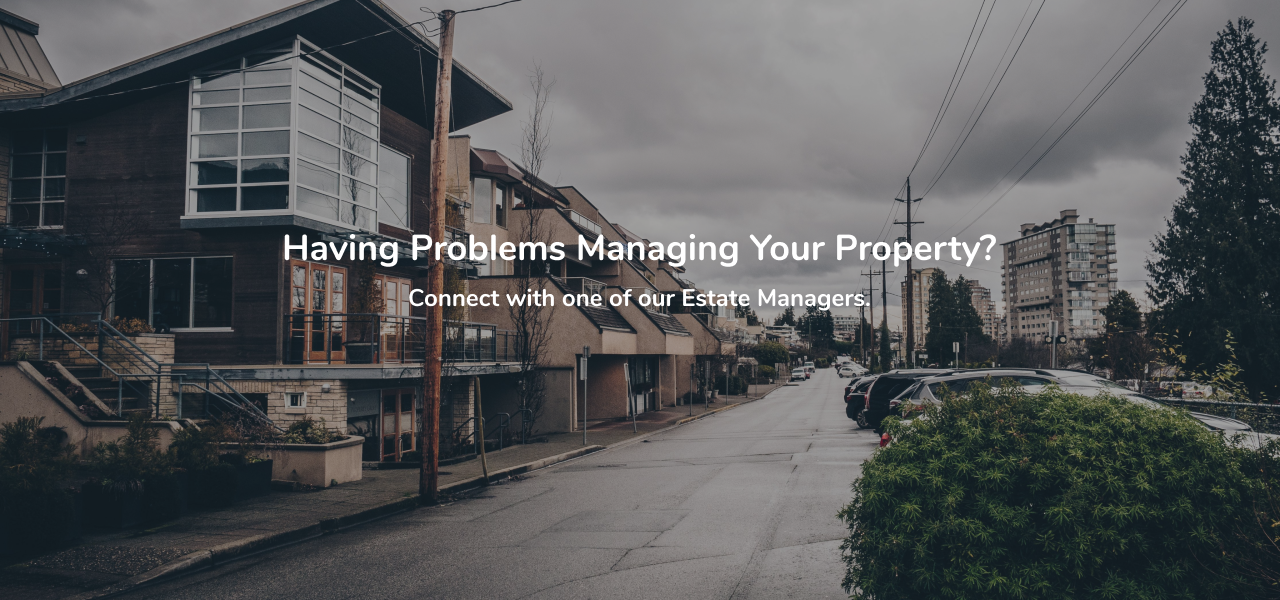
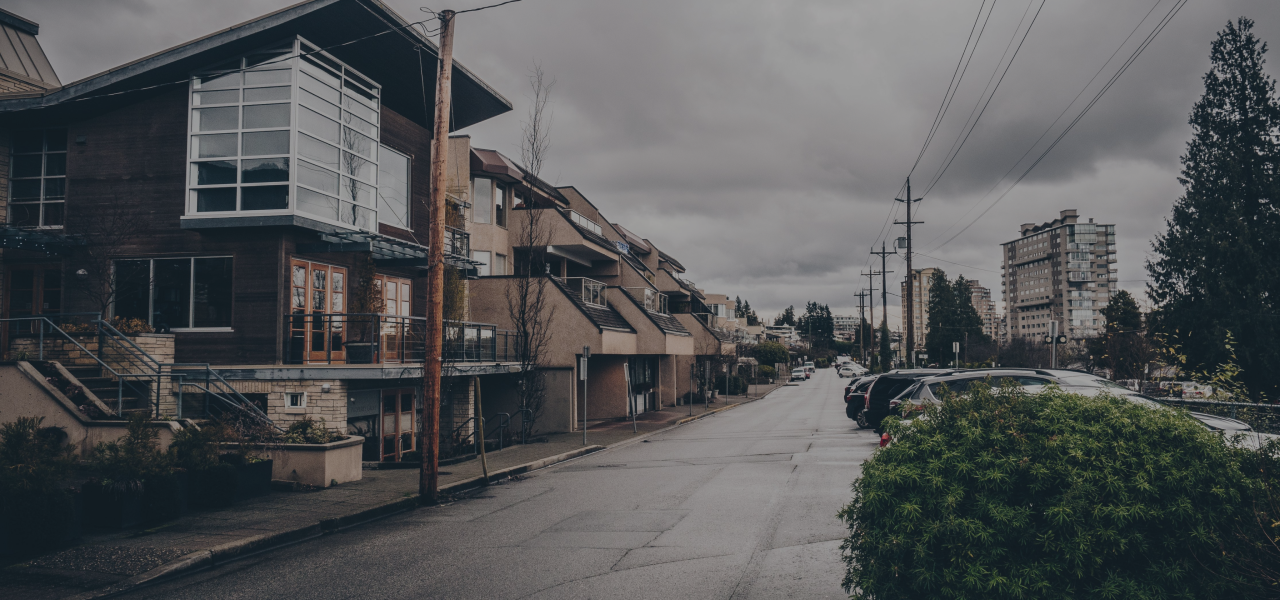
dashboard

Changed region(s): [[0.2188, 0.39, 0.7812, 0.45], [0.3125, 0.48, 0.6875, 0.51]]

diff --git a/index.html b/index.html
@@ -24,15 +24,14 @@
           <img src="assets/img/home icon.svg" class="admin--icon" height="32px" alt="">
         </a>
       </div>
-      <div>
+  <div>
           <p class="admin--text-big">
               Having Problems Managing Your Property?
             </p>
             <p class="admin--text-small">
               Connect with one of our Estate Managers.
             </p>
-      </div>
-      
+          </div>
       <div class="text-align--center">
         <a href="contact-us.html">
           <button type="button" class="btn btn-primary justify-content-center btn-admin-text text-align--center">Contact us now</button>
@@ -58,7 +57,7 @@
         </div>
         <div class="col-12 col-sm col-md-4 cards__cards">
           <div class="cards__cards--image">
-            <img src="assets/img/mark.svg" height="56px" width="56px" alt="">
+            <img src="assets/img/mark.svg" height="56px" width="40px" alt="">
           </div>
           <h3 class="cards__cards--title">Respond to Queries </h3>
           <p>Lorem ipsum dolor sit amet,
@@ -76,9 +75,7 @@
             <br> magna phasellus
             <br> maecenas nunc pharetra.</p>
         </div>
-
       </div>
-
     </div>
   </section>
 
@@ -88,9 +85,11 @@
         <div class="row cards__row">
             <div class="col align-self-center text-align--center">
                 <div class="cards__cards--image-pay">
-                    <img src="assets/img/Rectangle 3.svg" height="56px" width="56px" alt="">
+                    <a href="https://bit.ly/2KnaS7A" target="_blank"><img src="assets/img/Rectangle 3.svg" height="56px" width="56px" alt=""></a> 
+
                   </div>
-                <h3 class="bills__cards--title">Paystack</h3>
+                  <h3 class="bills__cards--title"><a href="https://bit.ly/2KnaS7A" target="_blank" class="btn--upload">Paystack</a></h3> 
+
                <p>Pay using paystack</p> 
               </div>
           </div>
@@ -108,7 +107,36 @@
                   <div class="cards__cards--image-pay">
                       <img src="assets/img/money-transfer icon.svg" height="56px" width="56px" alt="">
                     </div>
-                  <h3 class="bills__cards--title">Mobile Transfers</h3>
+                    <!-- Button trigger modal -->
+<button type="button" class="btn btn--upload" data-toggle="modal" data-target="#exampleModal1">
+  <h3 class="bills__cards--title">Mobile Transfers</h3>
+</button>
+
+<!-- Modal -->
+<div class="modal fade" id="exampleModal1" tabindex="-1" role="dialog" aria-labelledby="exampleModalLabel" aria-hidden="true">
+  <div class="modal-dialog" role="document">
+    <div class="modal-content">
+      <div class="modal-header">
+        <h5 class="modal-title" id="exampleModalLabel"><strong>Payment details</strong> </h5>
+        <button type="button" class="close" data-dismiss="modal" aria-label="Close">
+          <span aria-hidden="true">&times;</span>
+        </button>
+      </div>
+      <div class="modal-body">
+         <strong>
+            Bank Details 
+         </strong> <br>
+        Bank Name: Exccess Bank <br>
+        Acct Name: E.M Solutions <br>
+        Acct Number: 0011223344 
+      </div>
+      <div class="modal-footer">
+        <button type="button" class="btn btn-secondary" data-dismiss="modal">Close</button>
+        </div>
+    </div>
+  </div>
+</div>
+                 
                  <p>Transfer bills using mobile <br>
                     phones.</p> 
                 </div>
@@ -118,9 +146,41 @@
                     <div class="cards__cards--image-pay">
                         <img src="assets/img/upload.svg" height="56px" width="56px" alt="">
                       </div>
-                    <h3 class="bills__cards--title">Upload files</h3>
-                   <p>Send the proof of payment <br>
-                      to payments@emsolutions.com</p> 
+                      <!-- Button trigger modal -->
+<button type="button" class="btn btn--upload" data-toggle="modal" data-target="#exampleModal">
+  <h3 class="bills__cards--title">Upload files</h3>
+</button>
+
+<!-- Modal -->
+<div class="modal fade" id="exampleModal" tabindex="-1" role="dialog" aria-labelledby="exampleModalLabel" aria-hidden="true">
+  <div class="modal-dialog" role="document">
+    <div class="modal-content">
+      <div class="modal-header">
+        <h5 class="modal-title" id="exampleModalLabel">Upload files</h5>
+        <button type="button" class="close" data-dismiss="modal" aria-label="Close">
+          <span aria-hidden="true">&times;</span>
+        </button>
+      </div>
+      <div class="modal-body">
+        <div class="input-group mb-3">
+          <div class="input-group-prepend">
+            <span class="input-group-text">Upload</span>
+          </div>
+          <div class="custom-file">
+            <input type="file" class="custom-file-input" id="inputGroupFile01">
+            <label class="custom-file-label" for="inputGroupFile01">Choose file</label>
+          </div>
+        </div>
+      </div>
+      <div class="modal-footer">
+        <button type="button" class="btn btn-secondary" data-dismiss="modal">Close</button>
+        <button type="button" class="btn btn-primary">Send Payment</button>
+      </div>
+    </div>
+  </div>
+</div>
+                    
+                   <p>Send the proof of payment</p> 
                   </div>
               </div>
           </div>
@@ -132,41 +192,41 @@
     <p class="text-align--center form--p-text">Please note that you can only use this section if you are a registered customer/tenant.</p>
 <div class="container form__container">
   <div class="row">
-<div class="col-12 col-sm-6 col-md-6">
+      <div class="col-12 col-sm-3 col-md-6">
+          <div class="form-group">
+              <input type="text" class="form-control" id="exampleInputPassword1" placeholder="Fullname">
+            </div>
+            </div>
+<div class="col-12 col-sm-3 col-md-6">
     <div class="form-group">
         <input type="email" class="form-control" id="exampleInputEmail1" aria-describedby="emailHelp" placeholder="Enter email">
         <small id="emailHelp" class="form-text text-muted">We'll never share your email with anyone else.</small>
       </div>
       </div>
-      <div class="col-12 col-sm-6 col-md-6">
-      <div class="form-group">
-          <input type="text" class="form-control" id="exampleInputPassword1" placeholder="Fullname">
-        </div>
-        </div>
-<div class="col-12 col-sm-6 col-md-6">
+      
+<div class="col-12 col-sm-3 col-md-6">
     <div class="form-group">
         <input type="text" class="form-control" id="exampleInputEmail1" aria-describedby="emailHelp" placeholder="Estate name">
       </div>
       </div>
-      <div class="col-12 col-sm-6 col-md-6">
+      <div class="col-12 col-sm-3 col-md-6">
       <div class="form-group">
           <input type="text" class="form-control" id="exampleInputPassword1" placeholder="Apartment House No">
         </div>
         </div>
-
-        <label class="form--label" for="exampleInputPassword1">Complains/queries/suggestion</label>
-      <div class="col-12 col-sm-6 col-md-12">
-      <div class="form-group">
-          <textarea name="message" id="" cols="117" rows="5"></textarea>
-        </div>
+      <div class="col-12 col-sm-12 col-md-12">
+          <div class="form-group">
+              <label for="exampleFormControlTextarea1">Complains/queries/suggestion</label>
+              <textarea class="form-control" id="exampleFormControlTextarea1" rows="3"></textarea>
+            </div>
         </div>
           <!-- Button trigger modal -->
-<button type="button" class="btn btn-primary form-btn" data-toggle="modal" data-target="#exampleModal">
+<button type="button" class="btn btn-primary form-btn" data-toggle="modal" data-target="#exampleModal2">
     Send Message
   </button>
   
   <!-- Modal -->
-  <div class="modal fade" id="exampleModal" tabindex="-1" role="dialog" aria-labelledby="exampleModalLabel" aria-hidden="true">
+  <div class="modal fade" id="exampleModal2" tabindex="-1" role="dialog" aria-labelledby="exampleModalLabel" aria-hidden="true">
     <div class="modal-dialog" role="document">
       <div class="modal-content">
         <div class="modal-header">

diff --git a/users.html b/users.html
@@ -155,14 +155,16 @@
                   <th>Name</th>
                   <th>Email</th>
                   <th>Joined</th>
+                  <th>Message</th>
                   <th></th>
                 </tr>
                 <tr>
                   <td>Joshua Edigbe</td>
                   <td>joshuaedigbe@gmail.com</td>
                   <td>April 10, 2018</td>
+                  <td>My pump is not wrorking </td>
                   <td>
-                    <a class="btn btn-default" href="edit.html">Edit</a>
+                    <a class="btn btn-default" href="edit.html">view</a>
                     <a class="btn btn-danger" href="#">Delete</a>
                   </td>
                 </tr>
@@ -170,8 +172,9 @@
                   <td>Itunu Adekoye</td>
                   <td>itunsade@gmail.com</td>
                   <td>April 11, 2018</td>
+                  <td>My pump is not wrorking </td>
                   <td>
-                    <a class="btn btn-default" href="edit.html">Edit</a>
+                    <a class="btn btn-default" href="edit.html">view</a>
                     <a class="btn btn-danger" href="#">Delete</a>
                   </td>
                 </tr>
@@ -179,8 +182,9 @@
                   <td>Temitope Ojewale</td>
                   <td>temioje@gmail.comcom</td>
                   <td>April 13, 2018</td>
+                  <td>My pump is not wrorking </td>
                   <td>
-                    <a class="btn btn-default" href="edit.html">Edit</a>
+                    <a class="btn btn-default" href="edit.html">view</a>
                     <a class="btn btn-danger" href="#">Delete</a>
                   </td>
                 </tr>
@@ -188,8 +192,9 @@
                   <td>Sunday Kadiri</td>
                   <td>sundayboxer@yahoo.com</td>
                   <td>April 14, 2018</td>
+                  <td>My pump is not wrorking </td>
                   <td>
-                    <a class="btn btn-default" href="edit.html">Edit</a>
+                    <a class="btn btn-default" href="edit.html">view</a>
                     <a class="btn btn-danger" href="#">Delete</a>
                   </td>
                 </tr>

diff --git a/edit.html b/edit.html
@@ -56,38 +56,7 @@
     </div>
   </nav>
 
-  <header id="header">
-    <div class="container">
-      <div class="row">
-        <div class="col-md-10">
-          <h1>
-            <span class="glyphicon glyphicon-cog" aria-hidden="true"></span> Edit Page
-            <small>About</small>
-          </h1>
-        </div>
-        <div class="col-md-2">
-          <div class="dropdown create">
-            <button class="btn btn-default dropdown-toggle" type="button" id="dropdownMenu1" data-toggle="dropdown" aria-haspopup="true"
-              aria-expanded="true">
-              Create Content
-              <span class="caret"></span>
-            </button>
-            <ul class="dropdown-menu" aria-labelledby="dropdownMenu1">
-              <li>
-                <a type="button" data-toggle="modal" data-target="#addPage">Add Estate</a>
-              </li>
-              <li>
-                <a href="#">Add House</a>
-              </li>
-              <li>
-                <a href="#">Add Tenant</a>
-              </li>
-            </ul>
-          </div>
-        </div>
-      </div>
-    </div>
-  </header>
+
 
   <section id="breadcrumb">
       <div class="container">
@@ -151,20 +120,6 @@
             </a>
           </div>
 
-          <div class="well">
-            <h4>Disk Space Used</h4>
-            <div class="progress">
-              <div class="progress-bar" role="progressbar" aria-valuenow="60" aria-valuemin="0" aria-valuemax="100" style="width: 60%;">
-                70%
-              </div>
-            </div>
-            <h4>Bandwidth Used </h4>
-            <div class="progress">
-              <div class="progress-bar" role="progressbar" aria-valuenow="40" aria-valuemin="0" aria-valuemax="100" style="width: 40%;">
-                30%
-              </div>
-            </div>
-          </div>
         </div>
         <div class="col-md-9">
           <!-- Website Overview -->

diff --git a/assets/css/main.css b/assets/css/main.css
@@ -24,21 +24,16 @@ html, body{
 }
 
 .admin--text-big{
-    display: flex;
-   justify-content: center;
+ 
     color: white;
     font-size: 36px;
-    padding-top: 150px;
+    /* padding-top: 150px; */
     margin-bottom: 8px;
-    margin-left: 108px;
+    /* margin-left: 108px; */
     padding-bottom: 0;
-    text-align: right;
     font-weight: 700;
 }
 .admin--text-small{
-    display: flex;
-   justify-content: center;
-   align-items: center;
     color: white;
     font-size: 24px;
     font-weight: 600;
@@ -46,7 +41,7 @@ html, body{
 .index__banner{
     display: flex;
     height: 600px;
-    background-image: url("../../assets/img/grey-skies-street_4460x4460.jpg");
+    background-image: url("../../assets/img/Banner.png");
     background-position: center;
     background-size: cover;
     background-position: fixed;
@@ -85,6 +80,21 @@ html, body{
 
 /* cards */
 /* b ills*/
+.btn--upload{
+    background: white!important;
+    padding: 0!important;
+    color: #333333!important;
+    text-decoration: underline;
+}
+.btn--upload.focus, .btn--upload:focus {
+    outline: 0;
+    box-shadow: 0 0 0 0.2rem white;
+}
+.btn--upload:hover {
+    background: #2D9CDB!important;
+   color: white!important;
+}
+
 .bills{
     background-color: #ffffff;
     padding-top: 40px;
